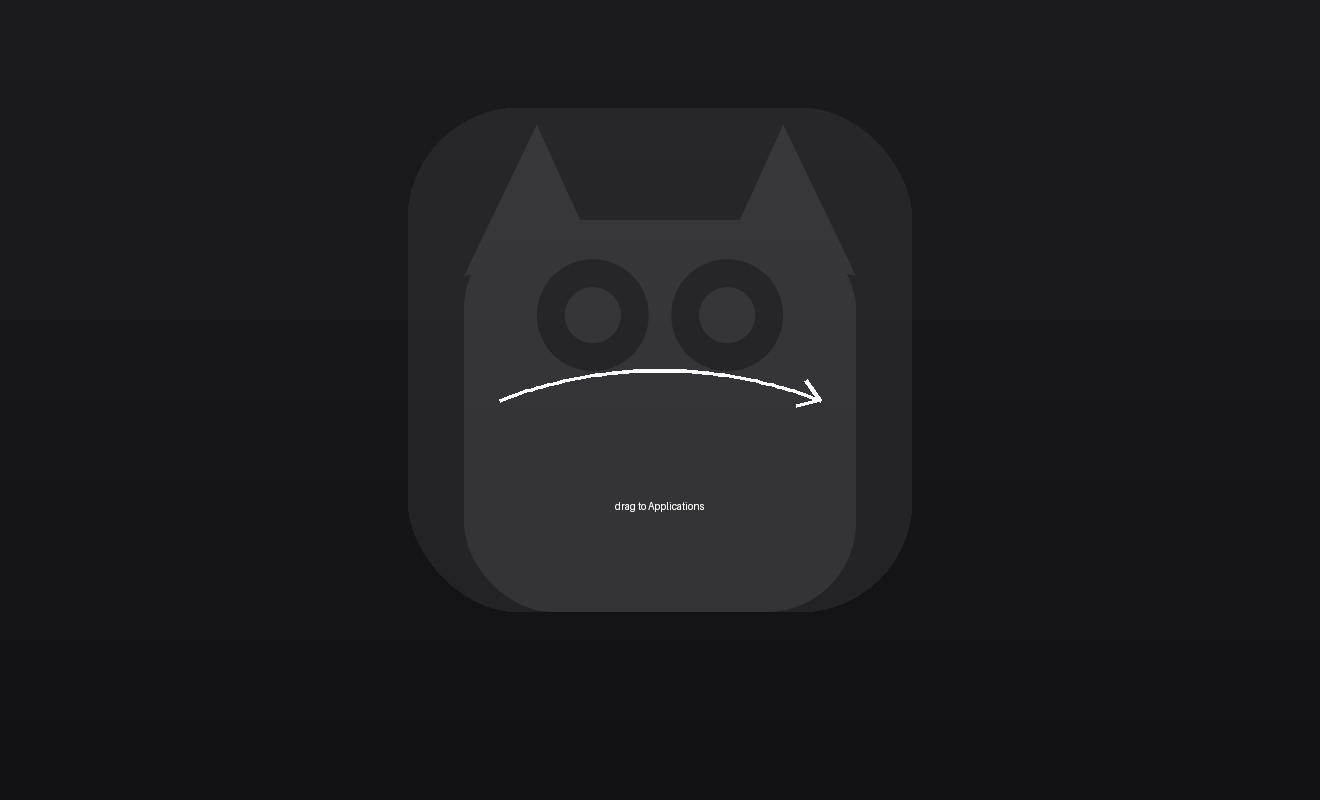
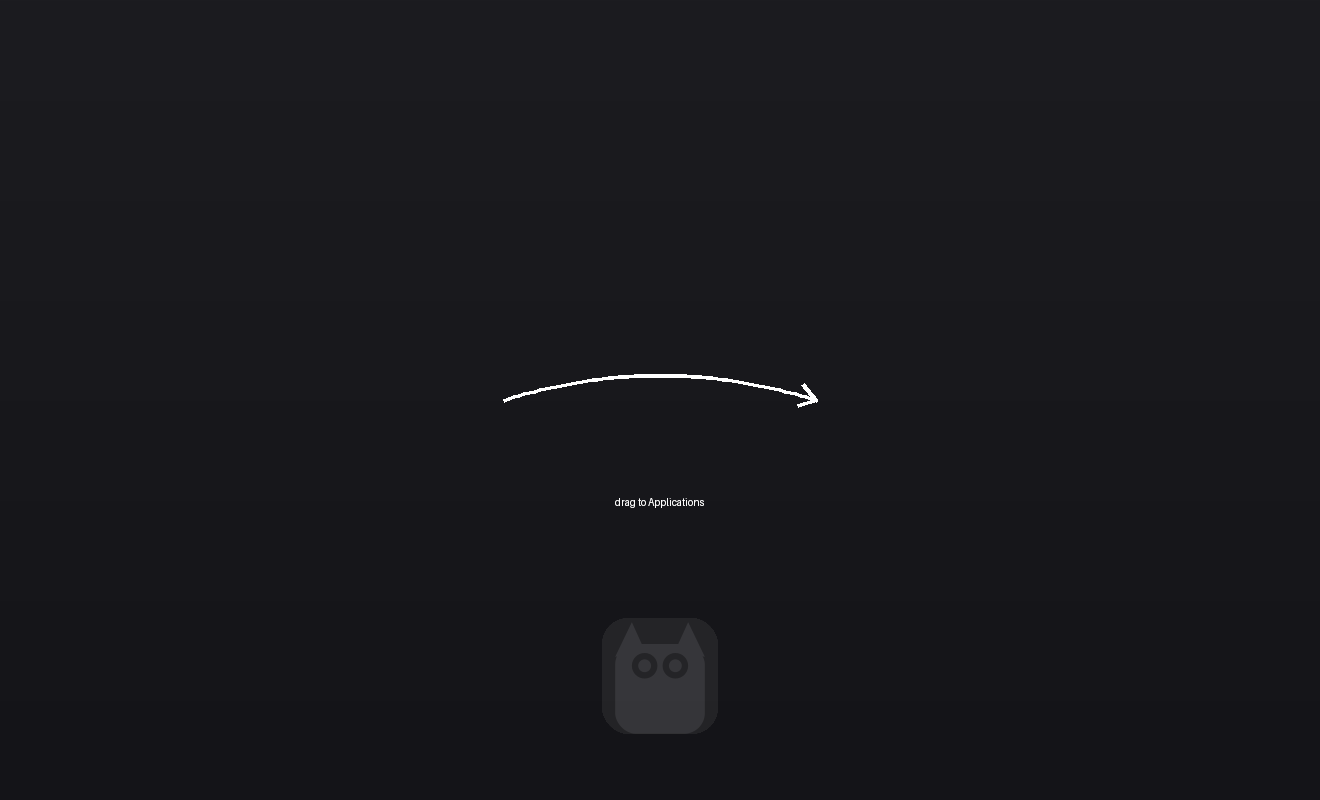
Fix DMG build: pin create-dmg, handle exit code 2, clean background
- Pin create-dmg v1.2.3 via tarball download instead of brew install
  (faster, reproducible, no brew dependency)
- Handle exit code 2 (no codesign identity) — expected in CI
- Move owl watermark to bottom center, out of icon drop zone
- Reduce watermark size to 64pt — subtle brand mark, not visual noise

https://claude.ai/code/session_017168yBdS567DjG532JKVtZ

Changed region(s): [[0.3417, 0.1562, 0.6523, 0.9375]]

diff --git a/scripts/generate_dmg_background.py b/scripts/generate_dmg_background.py
@@ -1,49 +1,46 @@
 #!/usr/bin/env python3
 """Generate a Retina background image for the Owlenda DMG installer.
 
-Creates a dark, branded background with:
-- Gradient matching Owlenda's black aesthetic
-- Subtle owl watermark from the app icon
-- Elegant curved arrow between icon positions
-- Minimal "drag to install" hint
-
 Run once locally, commit the output. Not part of CI.
 
 Output: Owlenda/Resources/dmg_background.png (1320x800 @144 DPI)
+
 Icon positions must match create-dmg flags in release.yml:
   --icon "Owlenda.app" 180 200
   --app-drop-link 480 200
+  --window-size 660 400
 """
 
 import math
 import os
 
 import cairosvg
-from PIL import Image, ImageDraw, ImageFilter, ImageFont
+from PIL import Image, ImageDraw, ImageFont
 
-# Window layout (points) — single source of truth
+# Layout (points) — single source of truth
 WIN_W, WIN_H = 660, 400
 APP_X, APP_Y = 180, 200
 DROP_X, DROP_Y = 480, 200
 
-SCALE = 2  # Retina
+SCALE = 2
 IMG_W, IMG_H = WIN_W * SCALE, WIN_H * SCALE
 
 SCRIPT_DIR = os.path.dirname(os.path.abspath(__file__))
 PROJECT_DIR = os.path.dirname(SCRIPT_DIR)
 SVG_PATH = os.path.join(PROJECT_DIR, "Owlenda", "Resources", "owl.svg")
-OUTPUT_PATH = os.path.join(PROJECT_DIR, "Owlenda", "Resources", "dmg_background.png")
+OUTPUT_PATH = os.path.join(
+    PROJECT_DIR, "Owlenda", "Resources", "dmg_background.png"
+)
 
 # Brand palette
 BG_TOP = (28, 28, 32)
-BG_BOTTOM = (18, 18, 22)
-ARROW_COLOR = (255, 255, 255, 90)
-TEXT_COLOR = (255, 255, 255, 100)
-WATERMARK_ALPHA = 18
+BG_BOTTOM = (20, 20, 24)
+ARROW_COLOR = (255, 255, 255, 80)
+TEXT_COLOR = (255, 255, 255, 90)
 
 
 def draw_gradient(img):
-    """Dark vertical gradient background."""
+    """Dark vertical gradient."""
     draw = ImageDraw.Draw(img)
     for y in range(IMG_H):
         t = y / IMG_H
@@ -54,40 +51,38 @@ def draw_gradient(img):
 
 
 def draw_watermark(img):
-    """Centered owl SVG as a subtle watermark."""
-    owl_size = 280 * SCALE
-    owl_png = cairosvg.svg2png(url=SVG_PATH, output_width=owl_size, output_height=owl_size)
+    """Small owl brand mark at the bottom center, below the icons."""
+    owl_size = 64 * SCALE
+    owl_png = cairosvg.svg2png(
+        url=SVG_PATH, output_width=owl_size, output_height=owl_size
+    )
     owl = Image.open(__import__("io").BytesIO(owl_png)).convert("RGBA")
 
-    # Make it very subtle
+    # Very subtle
     alpha = owl.split()[3]
-    alpha = alpha.point(lambda p: min(p, WATERMARK_ALPHA))
+    alpha = alpha.point(lambda p: min(p, 20))
     owl.putalpha(alpha)
 
     x = (IMG_W - owl_size) // 2
-    y = (IMG_H - owl_size) // 2 - 20 * SCALE
+    y = IMG_H - owl_size - 30 * SCALE  # bottom center, clear of icons
     img.paste(owl, (x, y), owl)
 
 
 def draw_curved_arrow(draw):
-    """Elegant curved arrow between the two icon positions."""
-    sx = (APP_X + 70) * SCALE   # right edge of app icon area
-    ex = (DROP_X - 70) * SCALE  # left edge of Applications area
+    """Subtle curved arrow between icon positions."""
+    sx = (APP_X + 72) * SCALE
+    ex = (DROP_X - 72) * SCALE
     cy = APP_Y * SCALE
     mid_x = (sx + ex) // 2
+    curve = -25 * SCALE
 
-    # Draw curved path using bezier-approximated points
     points = []
-    steps = 60
-    curve_height = -30 * SCALE  # slight upward curve
-    for i in range(steps + 1):
-        t = i / steps
-        # Quadratic bezier: start -> control(mid, up) -> end
+    for i in range(61):
+        t = i / 60
         x = (1 - t) ** 2 * sx + 2 * (1 - t) * t * mid_x + t ** 2 * ex
-        y = (1 - t) ** 2 * cy + 2 * (1 - t) * t * (cy + curve_height) + t ** 2 * cy
+        y = (1 - t) ** 2 * cy + 2 * (1 - t) * t * (cy + curve) + t ** 2 * cy
         points.append((x, y))
 
-    # Draw the curve
     for i in range(len(points) - 1):
         draw.line([points[i], points[i + 1]], fill=ARROW_COLOR, width=2 * SCALE)
 
@@ -95,7 +90,7 @@ def draw_curved_arrow(draw):
     last = points[-1]
     prev = points[-4]
     angle = math.atan2(last[1] - prev[1], last[0] - prev[0])
-    head = 12 * SCALE
+    head = 10 * SCALE
     for da in [-math.pi / 5, math.pi / 5]:
         bx = last[0] - head * math.cos(angle + da)
         by = last[1] - head * math.sin(angle + da)
@@ -103,18 +98,19 @@ def draw_curved_arrow(draw):
 
 
 def draw_text(draw):
-    """Subtle hint text below the arrow."""
-    text = "drag to Applications"
+    """Minimal hint text below the arrow."""
     try:
-        font = ImageFont.truetype("/System/Library/Fonts/Helvetica.ttc", 12 * SCALE)
+        font = ImageFont.truetype(
+            "/System/Library/Fonts/Helvetica.ttc", 11 * SCALE
+        )
     except (OSError, IOError):
         font = ImageFont.load_default()
 
-    bbox = draw.textbbox((0, 0), text, font=font)
+    bbox = draw.textbbox((0, 0), "drag to Applications", font=font)
     tw = bbox[2] - bbox[0]
     x = (IMG_W - tw) // 2
-    y = (APP_Y + 50) * SCALE
-    draw.text((x, y), text, fill=TEXT_COLOR, font=font)
+    y = (APP_Y + 48) * SCALE
+    draw.text((x, y), "drag to Applications", fill=TEXT_COLOR, font=font)
 
 
 def generate():
